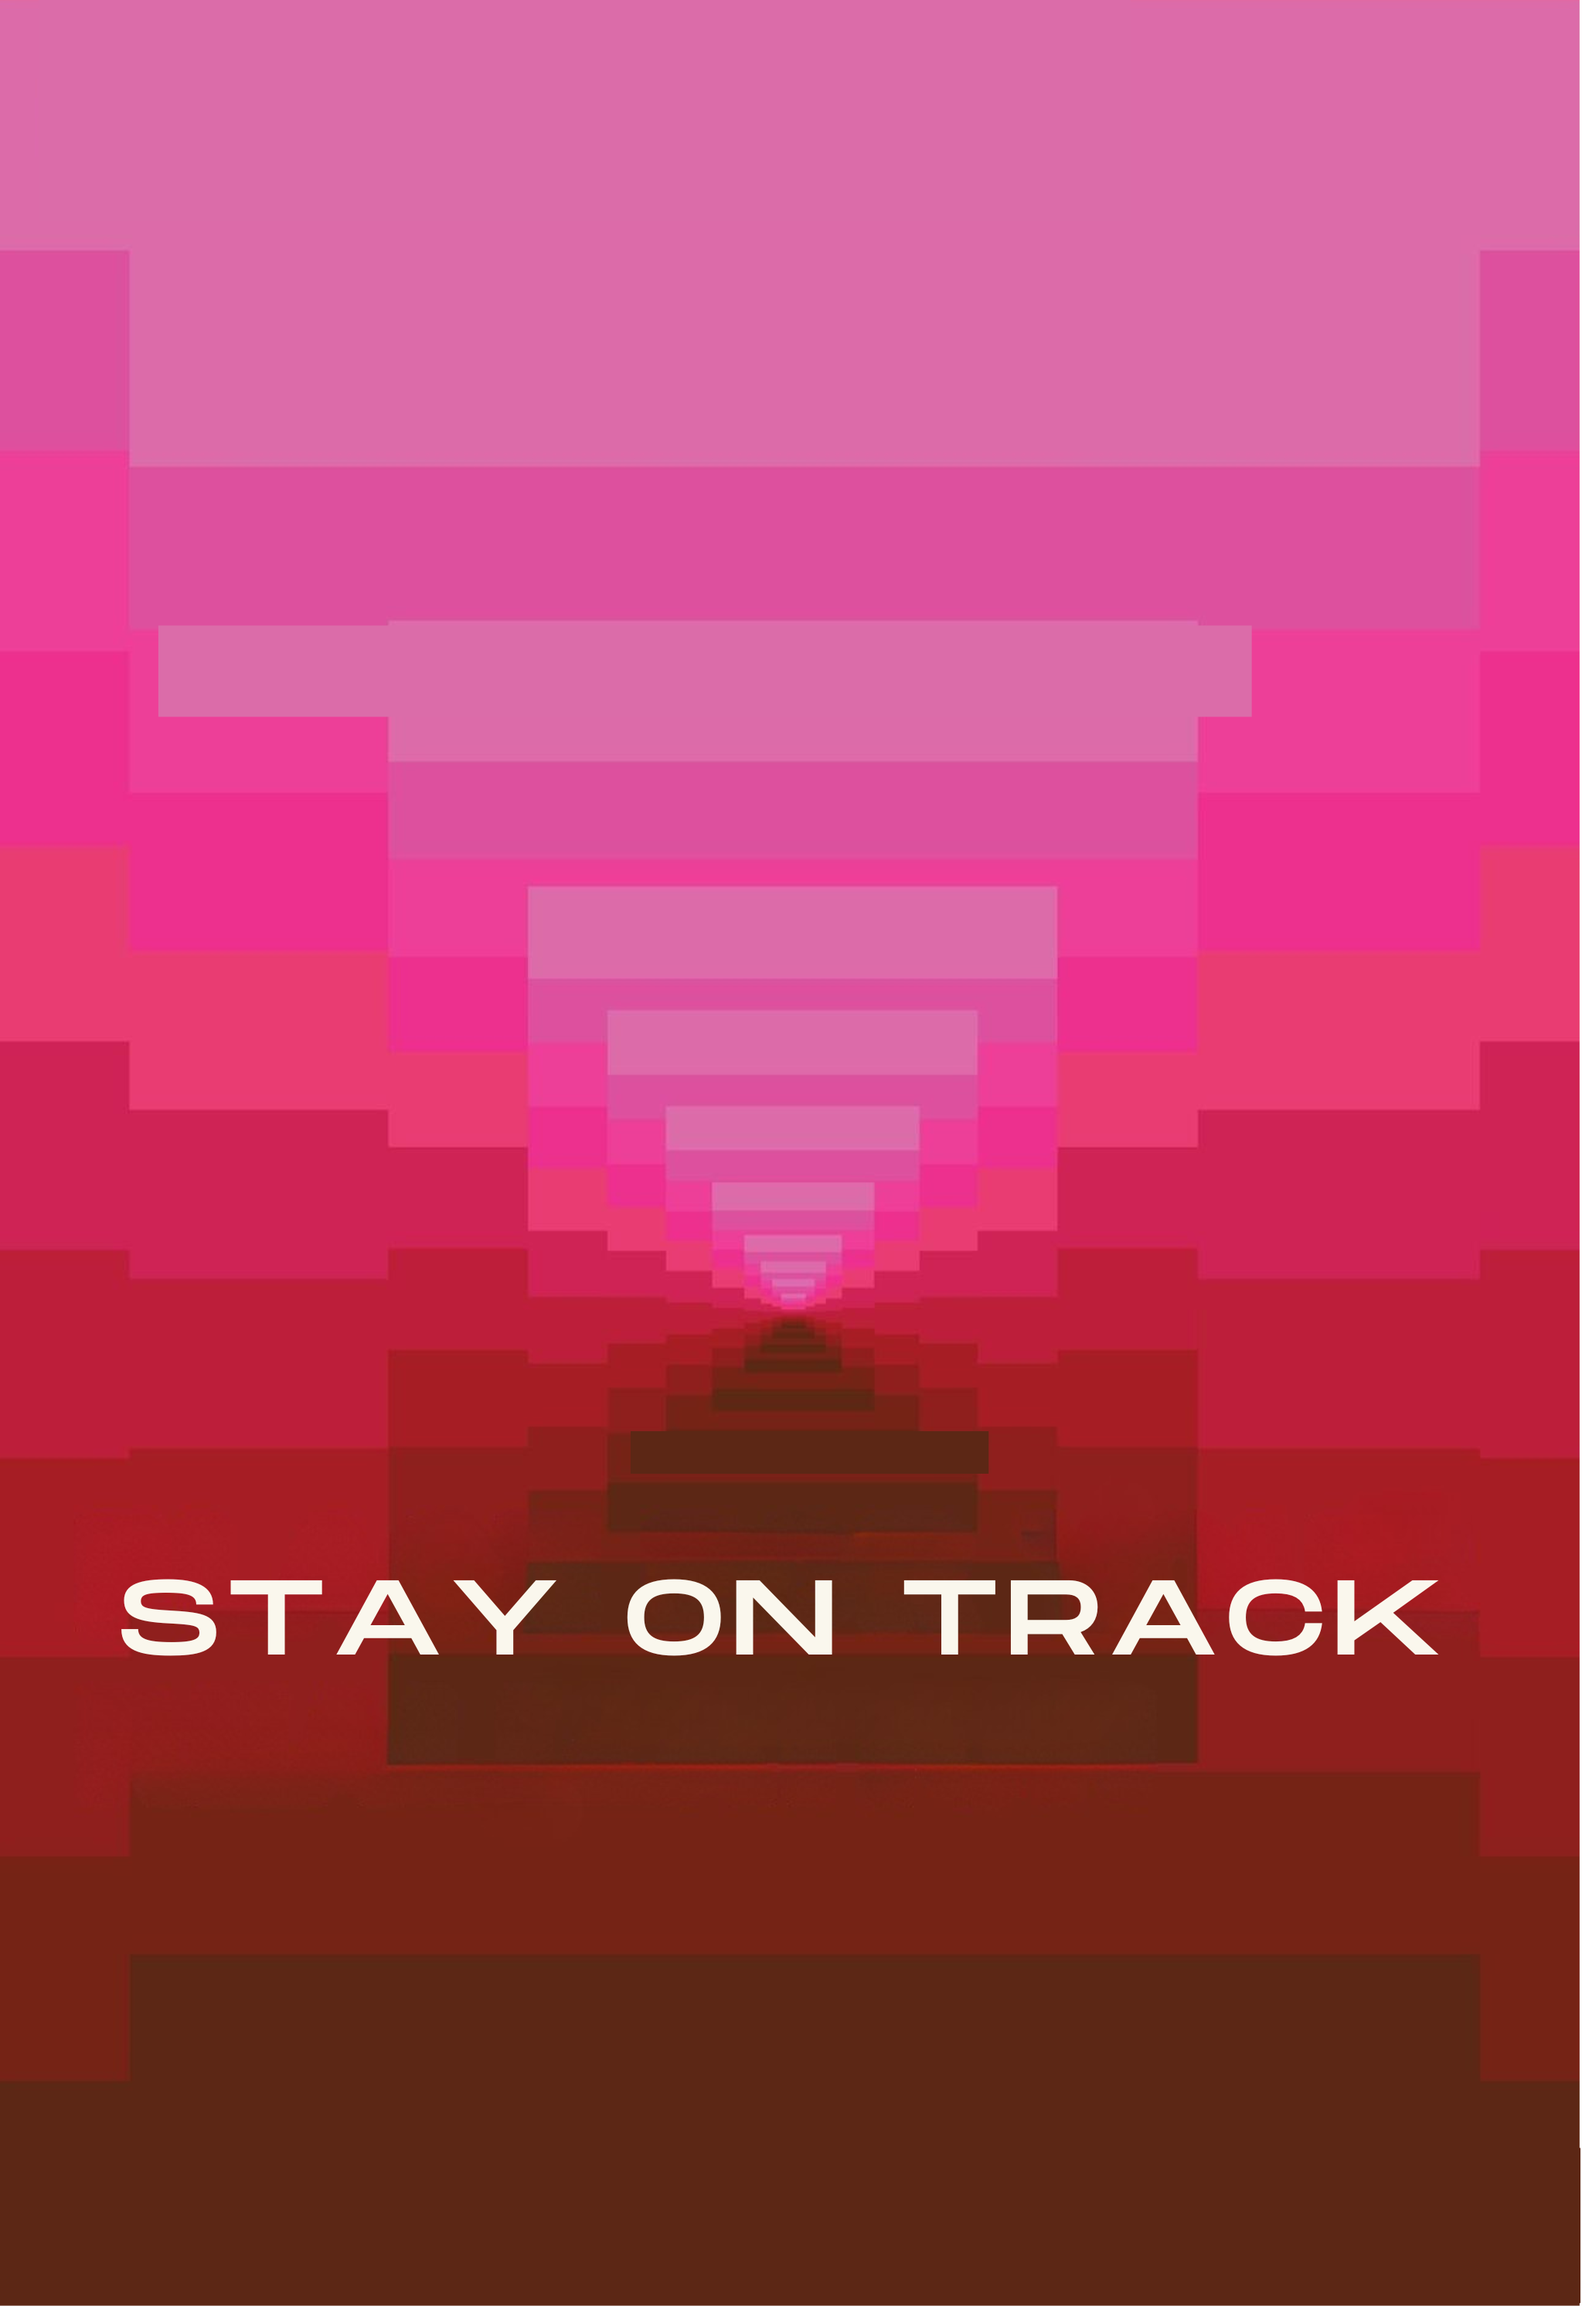
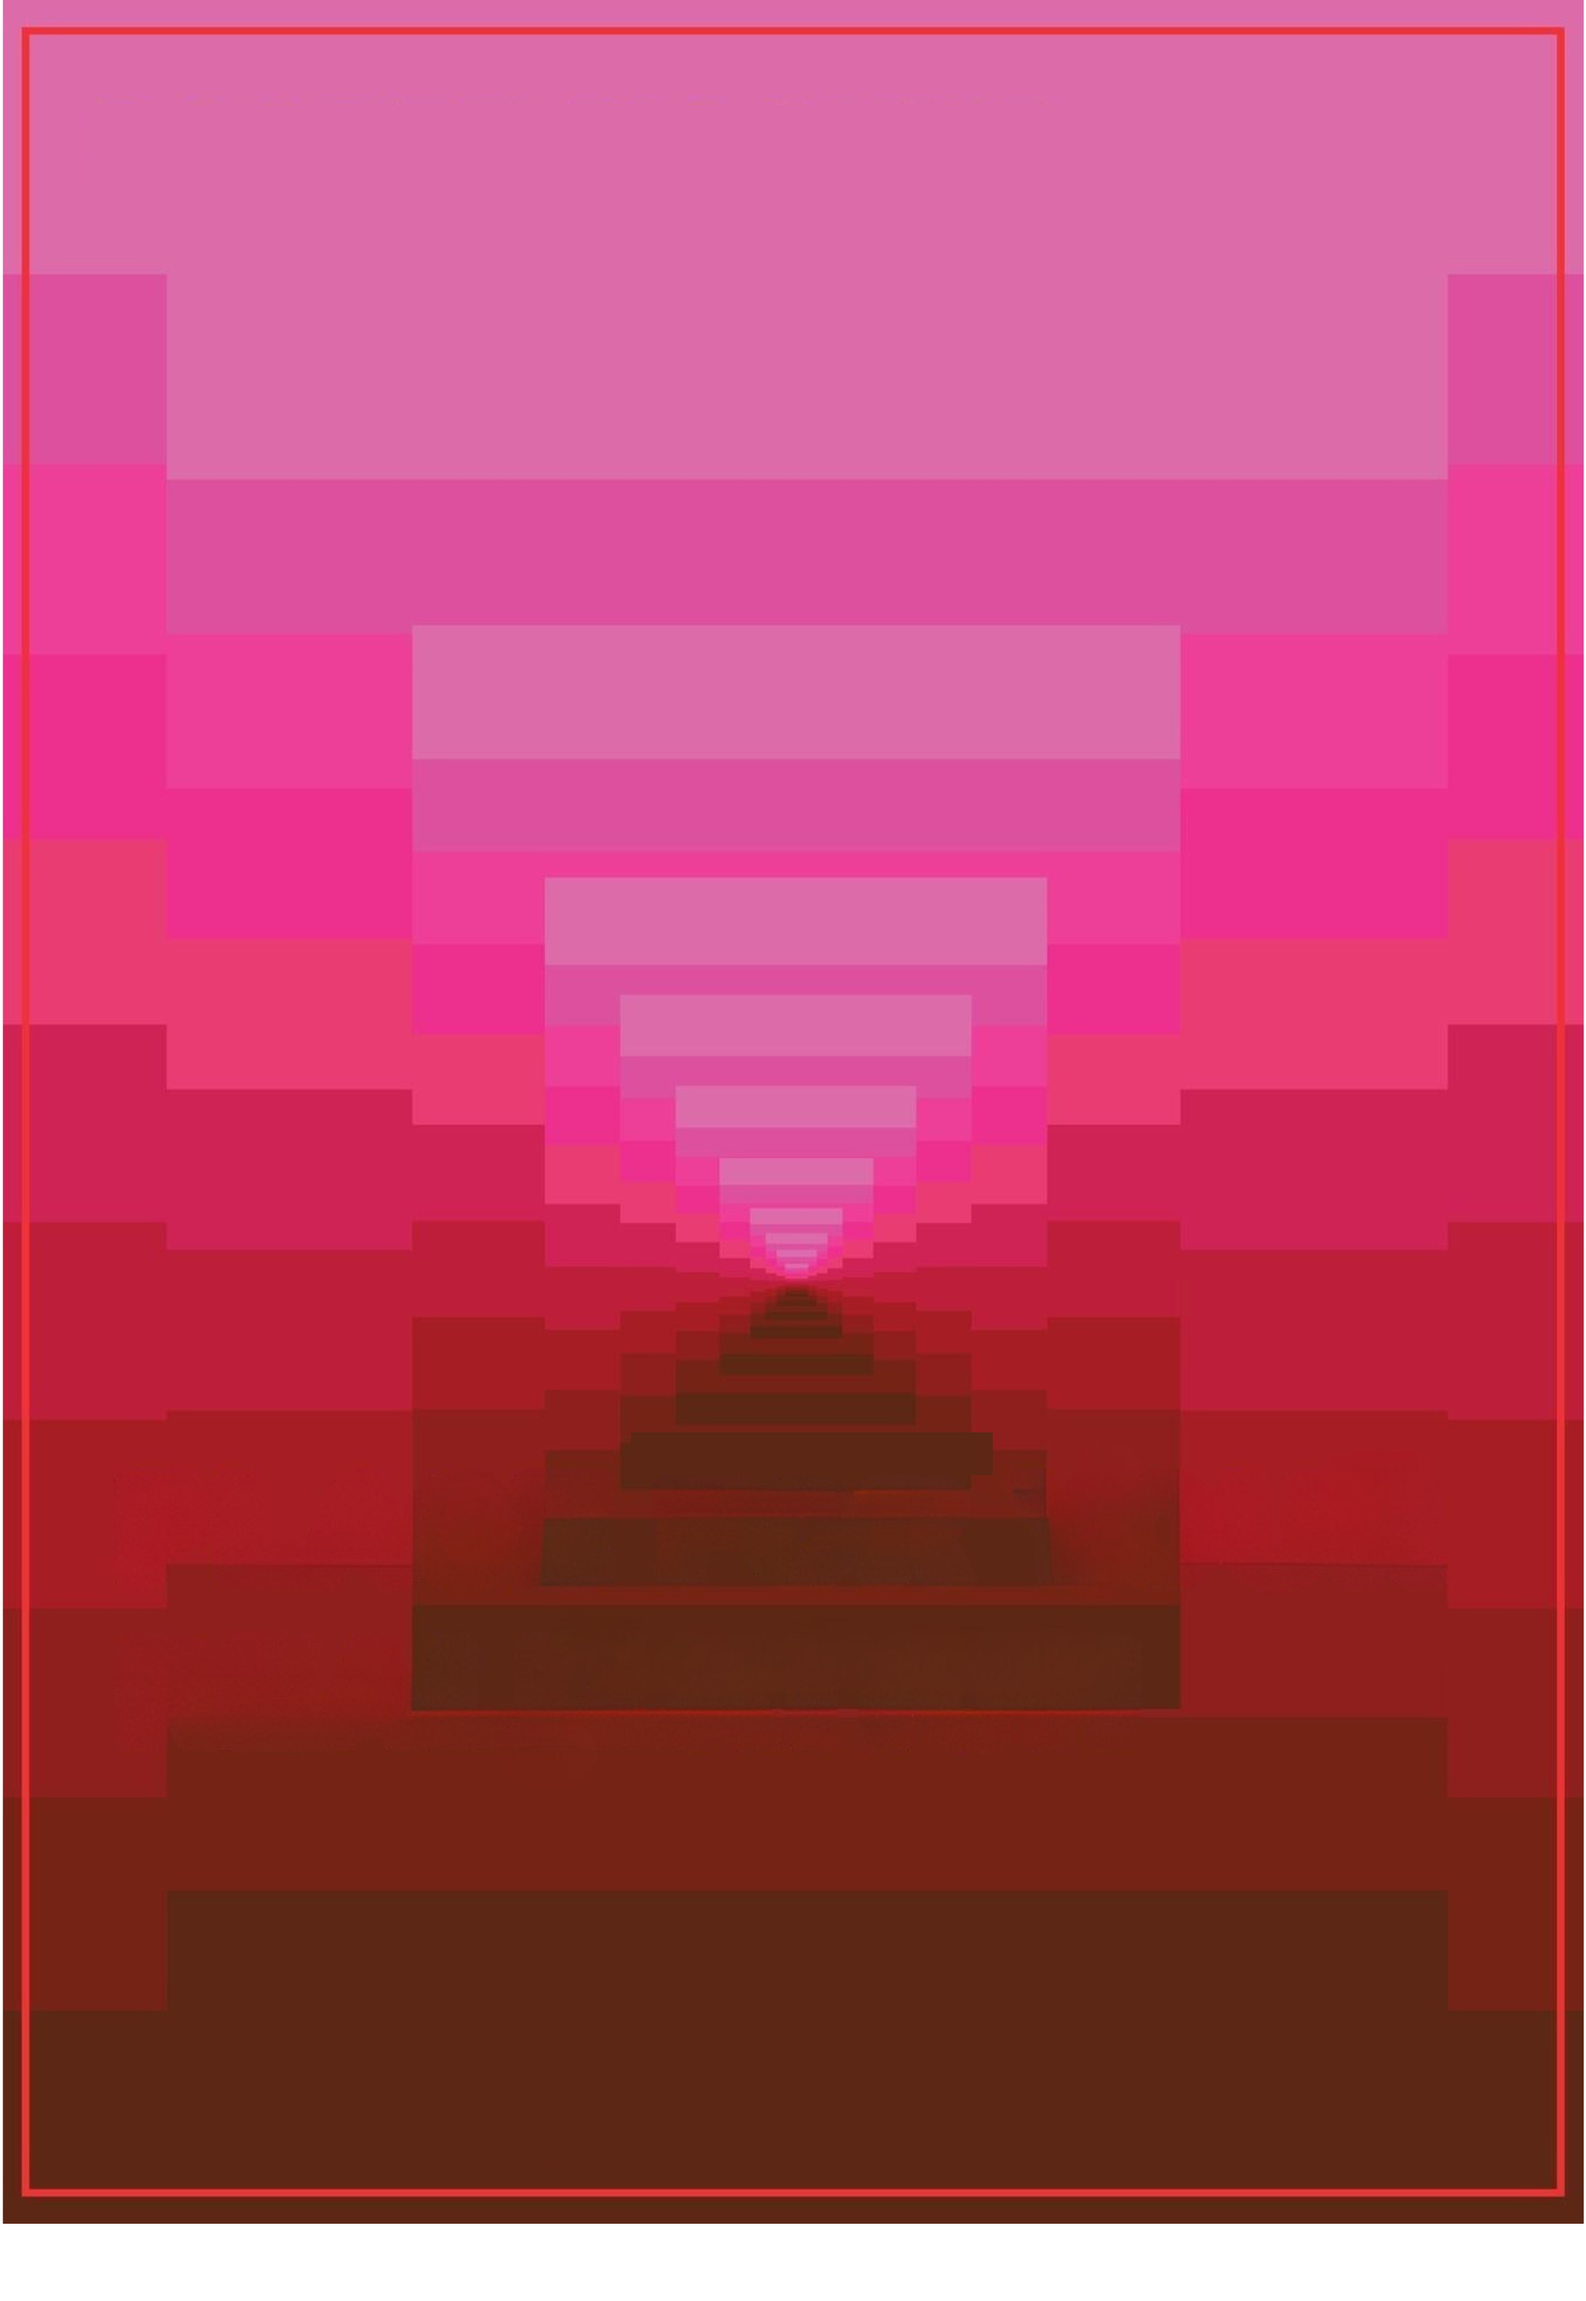
pics for bracees page

diff --git a/app/caring-for-your-braces/index.js b/app/caring-for-your-braces/index.js
@@ -302,6 +302,7 @@ const CaringForYourBraces = () => {
       window.removeEventListener("resize", setWinDimensions);
     };
   }, []);
+
   return (
     <div ref={containerRef} className=" min-h-screen">
       <div>
@@ -403,20 +404,37 @@ const CaringForYourBraces = () => {
                     </p>
                   </div>
                   <div className="purpleSectionImage">
-                    <div
-                      className="imageInnerContainer"
-                     
-                    >
-                      <img
-                        src="../images/stayontrack.png"
-                        alt="portal"
-                        style={{
-                          width: "100%",
-                          height: "auto",
-                          objectFit: "contain",
-                        }}
-                      />
-                    </div>
+                  <div className="imageInnerContainer" style={{ position: "relative", width: "100%" }}>
+  <img
+    src="../images/stayontrack.png"
+    alt="portal"
+    style={{
+      width: "100%",
+      height: "auto",
+      objectFit: "contain",
+    }}
+  />
+ 
+  <div 
+     style={{
+      position: "absolute",
+      top: "70%",
+      left: "50%",
+      transform: "translate(-50%, -50%)",
+      textAlign: "center",
+      pointerEvents: "none" ,
+      display:"flex",
+      gap: "20px",
+      fontFamily:"NeueHaasRoman"
+    }}
+>
+
+ <h1 id="effect">STAY ON TRACK</h1>
+
+
+</div>
+</div>
+
                   </div>
                 </div>
               </div>
@@ -477,7 +495,7 @@ const CaringForYourBraces = () => {
                     }}
                   >
                     <img
-                      src="../images/flossbrush.png"
+                      src="../images/handholdingtoothbrush.jpg"
                       alt="brushing"
                       style={{
                         width: "100%",
@@ -534,18 +552,18 @@ const CaringForYourBraces = () => {
                     and irritation. Hang in there—it gets easier!
                   </div>
                 </div>
-                <div className="whiteSectionImage">
+                <div >
                   <div
-                    className="imageInnerContainer w-1/3"
+                    className="imageInnerContainer "
                     style={{
                       marginTop: "3.25rem",
                     }}
                   >
                     <img
-                      src="../images/hanginthere.png"
+                      src="../images/dentalwax3.png"
                       alt="portal"
                       style={{
-                        maxHeight: "100%",
+                        maxHeight: "60%",
                         width: "auto",
                         objectFit: "contain",
                       }}
@@ -604,7 +622,7 @@ const CaringForYourBraces = () => {
                   }}
                 >
                   <img
-                    src="../images/soda1.png"
+                    src="../images/soda2.png"
                     alt="portal"
                     style={{
                       maxHeight: "70%",
@@ -733,14 +751,14 @@ const CaringForYourBraces = () => {
                     marginTop: "20.25rem",
                   }}
                 >
-                  <video
+                  {/* <video
                     src="https://video.wixstatic.com/video/11062b_163d7539f7824eb895994a6460f0995b/720p/mp4/file.mp4"
                     className="object-cover w-full h-full"
                     autoPlay
                     loop
                     muted
                     playsInline
-                  ></video>
+                  ></video> */}
                 </div>
               </div>
             </div>

diff --git a/app/globals.css b/app/globals.css
@@ -4849,8 +4849,8 @@ a {
 .purpleSection { background-color: #E6E6E5;}
 .greenSection { background-color:  #F3C744;  }
 .whiteSection { background-color: #96CCD5 }
-.orangeSection { background-color: #E9E5F0;}
-.redSection { background-color:#F0F8FF }
+.orangeSection { background-color: #CFB2D4}
+.redSection { background-color:#DD5310}
 .blackSection { background-color: #e6edac }
 /* #CADACF */
 
@@ -5630,3 +5630,32 @@ text-transform: uppercase;
   width: 100%;
   height: 100%;
 }
+
+
+
+#effect {
+  font-size: 48px;
+  line-height: 1;
+  white-space: nowrap;
+  color: #fff;
+}
+
+
+    #effect::before, #effect::after {
+
+        content: 'STAY ON TRACK';
+        position: absolute;
+        top: 0;
+        left: 0;
+        height: 100%;
+        width: 100%;
+        opacity: .8;
+    } #effect::after {
+        color: #f0f;
+        z-index: -2;
+      margin:3px
+    } #effect::before {
+        color: #0ff;
+        z-index: -1;
+      margin:-3px
+    }
